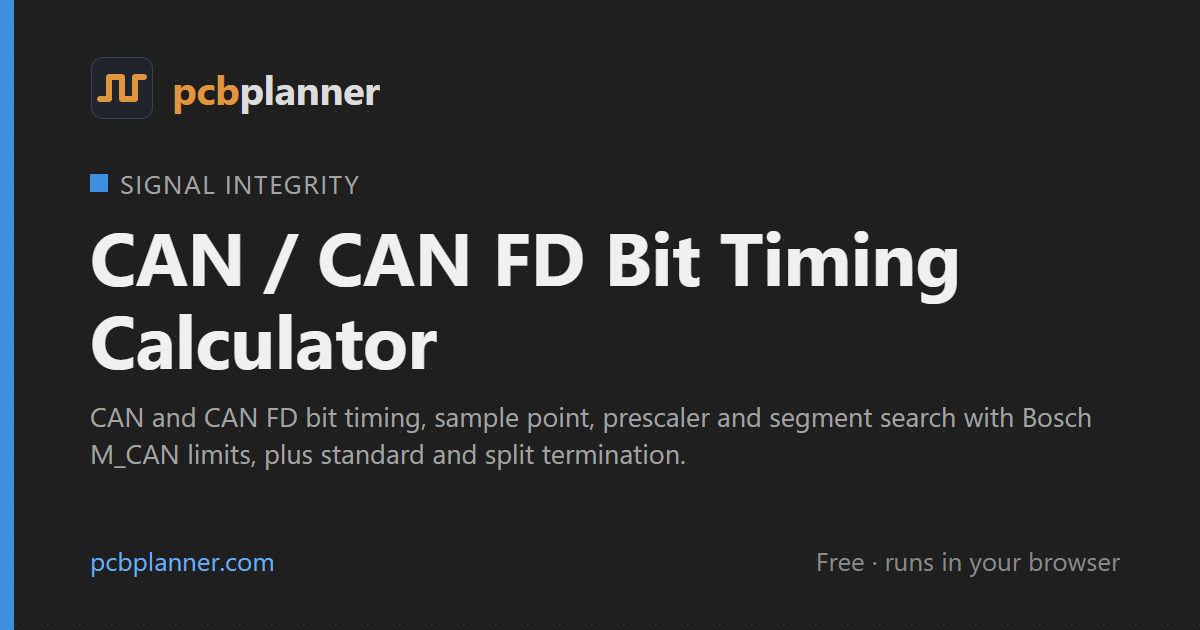
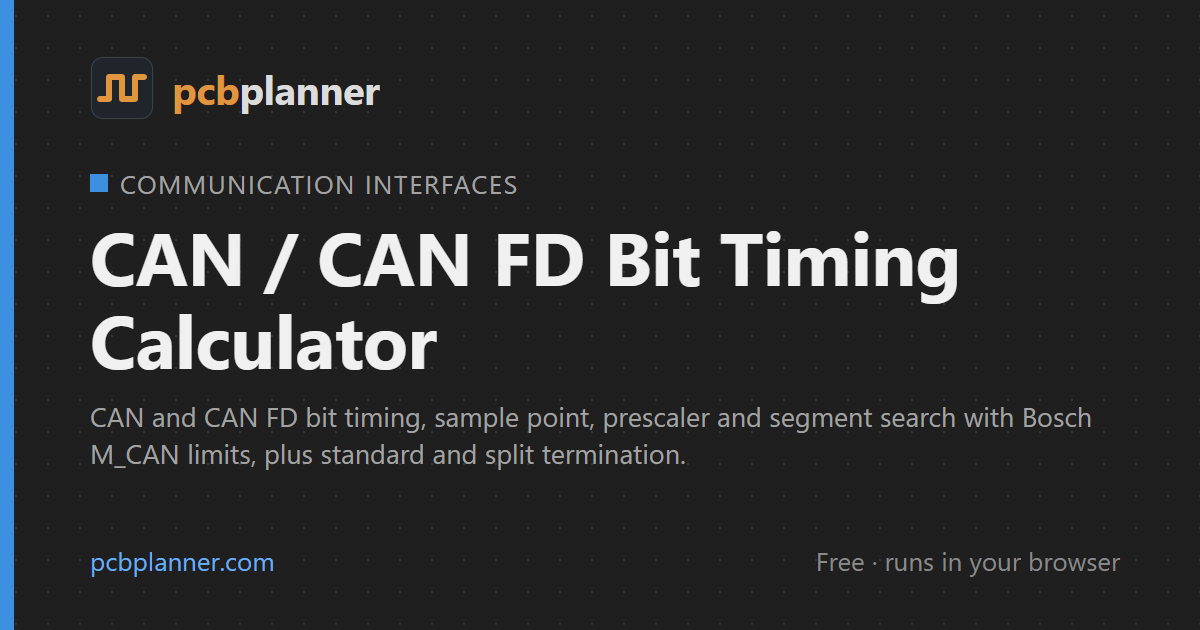
Group communication calculators behind one navigation entry

Changed region(s): [[0.0925, 0.2714, 0.4317, 0.3317]]

diff --git a/src/tools/registry.ts b/src/tools/registry.ts
@@ -15,6 +15,7 @@ export interface ToolDef {
 /** Colour swatch per group, like layer colours in the PCB editor. */
 export const GROUP_COLORS: Record<string, string> = {
   'Signal integrity': '#3d8fe0',
+  'Communication interfaces': '#3d8fe0',
   RF: '#5fb0d8',
   Stackup: '#c9a227',
   Thermal: '#e0645a',
@@ -105,9 +106,18 @@ export const TOOLS: ToolDef[] = [
     title: 'SPI Timing Calculator',
     metaDescription: 'SPI read timing from outgoing clock delay, peripheral clock-to-output, MISO return, setup and reserve. Calculate setup margin and clock ceiling.',
     nav: 'SPI timing',
-    group: 'Signal integrity',
+    group: 'Communication interfaces',
     summary: 'Opposite-edge SPI read timing: clock and MISO path delay, peripheral tCO, setup margin and the timing-limited clock ceiling.',
     component: lazyPage(() => import('./SpiTiming')),
+  },
+  {
+    path: '/i2c-pullup',
+    metaDescription: 'I²C pull-up resistor range for each SDA or SCL line from bus capacitance, rise-time limit and device sink current, with a bus capacitance estimate.',
+    title: 'I²C Pull-up Calculator',
+    nav: 'I²C pull-up',
+    group: 'Communication interfaces',
+    summary: 'Pull-up resistor range for Standard, Fast and Fast-mode Plus I²C from bus capacitance, rise time and device sink current.',
+    component: lazyPage(() => import('./I2cPullup')),
   },
   {
     path: '/can-bit-timing',
@@ -115,7 +125,7 @@ export const TOOLS: ToolDef[] = [
     seoTitle: 'CAN & CAN FD Bit Timing Calculator',
     metaDescription: 'CAN bit rate, sample point, time quanta and timing search using Bosch M_CAN limits. Includes CAN FD data phase and split termination calculations.',
     nav: 'CAN / CAN FD timing',
-    group: 'Signal integrity',
+    group: 'Communication interfaces',
     summary: 'CAN and CAN FD bit timing, sample point, prescaler and segment search with Bosch M_CAN limits, plus standard and split termination.',
     component: lazyPage(() => import('./CanBitTiming')),
   },
@@ -124,7 +134,7 @@ export const TOOLS: ToolDef[] = [
     title: 'RS-485 / Modbus RTU Calculator',
     metaDescription: 'RS-485 termination, conservative fail-safe bias resistor sizing and stub length. Modbus RTU character, frame-gap and polling timing calculations.',
     nav: 'RS-485 / Modbus',
-    group: 'Signal integrity',
+    group: 'Communication interfaces',
     summary: 'Two-wire RS-485 end termination, conservative external bias sizing, rise-time-based stub length and Modbus RTU frame and polling timing.',
     component: lazyPage(() => import('./Rs485Modbus')),
   },
@@ -497,15 +507,6 @@ export const TOOLS: ToolDef[] = [
     group: 'Electronics',
     summary: 'Astable frequency and duty cycle, resistor values for a target frequency, and monostable pulse width, from the TI NE555 equations.',
     component: lazyPage(() => import('./Timer555')),
-  },
-  {
-    path: '/i2c-pullup',
-    metaDescription: 'I²C pull-up resistor range for each SDA or SCL line from bus capacitance, rise-time limit and device sink current, with a bus capacitance estimate.',
-    title: 'I²C Pull-up Calculator',
-    nav: 'I²C pull-up',
-    group: 'Electronics',
-    summary: 'Pull-up resistor range for Standard, Fast and Fast-mode Plus I²C from bus capacitance, rise time and device sink current.',
-    component: lazyPage(() => import('./I2cPullup')),
   },
   {
     path: '/logic-levels',

diff --git a/src/components/CommunicationLinks.tsx b/src/components/CommunicationLinks.tsx
@@ -4,7 +4,7 @@ import '../styles/communication.css';
 const buses=[{path:'/spi-timing',name:'SPI',detail:'Read-path timing'},{path:'/i2c-pullup',name:'I²C',detail:'Pull-up and capacitance'},{path:'/can-bit-timing',name:'CAN / CAN FD',detail:'Bit timing and termination'},{path:'/rs485-modbus',name:'RS-485 / Modbus',detail:'Bias and RTU timing'}];
 export function CommunicationLinks(){
   const {pathname}=useLocation();
-  return <Panel allowInvalid title="Communication interface calculators" className="mb-3"><nav className="communication-links" aria-label="Communication interfaces">{buses.map(bus=><Link to={bus.path} key={bus.path} aria-current={pathname===bus.path?'page':undefined}><strong>{bus.name}</strong><span>{bus.detail}</span></Link>)}</nav>{pathname!=='/interface-rules'&&<p className="communication-link-back"><Link to="/interface-rules">High-speed interface rules: Ethernet, USB, PCIe and more →</Link></p>}</Panel>;
+  return <Panel allowInvalid title="Communication interfaces" className="mb-3"><nav className="communication-links" aria-label="Communication interfaces">{buses.map(bus=><Link to={bus.path} key={bus.path} aria-current={pathname===bus.path?'page':undefined}><strong>{bus.name}</strong><span>{bus.detail}</span></Link>)}</nav>{pathname!=='/interface-rules'&&<p className="communication-link-back"><Link to="/interface-rules">High-speed interface rules: Ethernet, USB, PCIe and more →</Link></p>}</Panel>;
 }
 export function TimingBudget({parts,available,label,unit='ns'}:{parts:{label:string;value:number;color:string}[];available:number;label:string;unit?:string}){
   const total=parts.reduce((sum,part)=>sum+part.value,0),scale=Math.max(total,available,Number.EPSILON),remaining=Math.max(0,available-total),hasRemaining=remaining>scale*1e-12;

diff --git a/src/components/ToolsNavigation.tsx b/src/components/ToolsNavigation.tsx
@@ -106,7 +106,18 @@ export function ToolsNavigation({
         )) : <p className="favorites-empty">Star a tool to pin it here.</p>}
       </section>
       <Separator className="nav-separator" />
-      {GROUPS.map((group) => (
+      {GROUPS.map((group) => group === 'Communication interfaces' ? (
+        <Link key={group}
+          className={'side-link communication-nav-link' + (TOOLS.some(tool => tool.group === group && tool.path === path) ? ' current' : '')}
+          aria-current={TOOLS.some(tool => tool.group === group && tool.path === path) ? 'page' : undefined}
+          to={TOOLS.find(tool => tool.group === group && tool.path === path)?.path ?? '/spi-timing'}
+          onClick={onNavigate}
+        >
+          <CategoryIcon group={group} color={GROUP_COLORS[group]} />
+          <span>{group}</span>
+          <span className="group-count">{TOOLS.filter(tool => tool.group === group).length}</span>
+        </Link>
+      ) : (
         <details className="nav-group" key={group} open>
           <summary>
             <CategoryIcon group={group} color={GROUP_COLORS[group]} />

diff --git a/src/components/CategoryIcon.tsx b/src/components/CategoryIcon.tsx
@@ -2,6 +2,7 @@ import type { ReactNode } from 'react';
 
 const symbols: Record<string, ReactNode> = {
     'Signal integrity': <path d="M2 17h5V7h6v10h6V7h3" />,
+    'Communication interfaces': <><path d="M3 8h18M3 16h18M7 4v4m10 8v4" /><circle cx="7" cy="8" r="2" /><circle cx="17" cy="16" r="2" /></>,
     RF: <path d="M2 14c3-12 5-12 8 0s5 12 8 0 3-6 4-4" />,
     Stackup: <path d="m2 8 10-5 10 5-10 5ZM2 12l10 5 10-5M2 16l10 5 10-5" />,
     Thermal: <><path d="M9 14.5V5a3 3 0 0 1 6 0v9.5a5 5 0 1 1-6 0ZM12 7v11" /><circle cx="12" cy="18" r="1" /></>,

diff --git a/src/styles/workbench-update.css b/src/styles/workbench-update.css
@@ -79,3 +79,5 @@
 .project-save-note { flex-basis: 100%; color: var(--muted); font-size: 11px; line-height: 1.5; }
 @media (max-width: 480px) { .project-save-bar { padding: 10px; gap: 10px; } .project-save-bar [data-slot='button'] { font-size: 12px; } }
 @media print { .project-save-bar { display: none !important; } }
+
+.communication-nav-link{font-size:11px;font-weight:600;margin:5px 0;gap:8px}.communication-nav-link>span:first-of-type{min-width:0}.communication-nav-link .group-count{flex-shrink:0}
